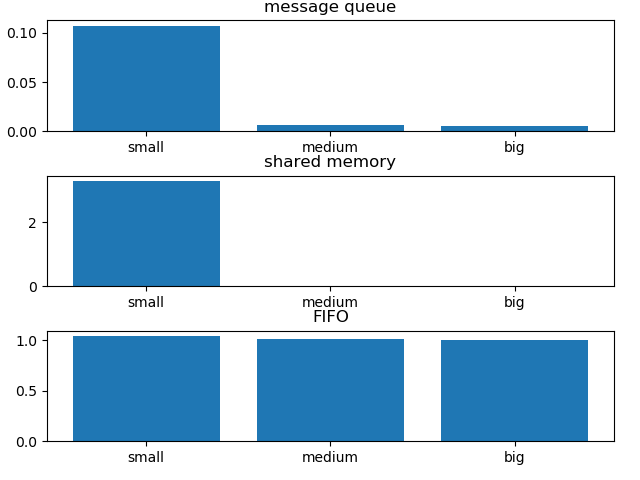
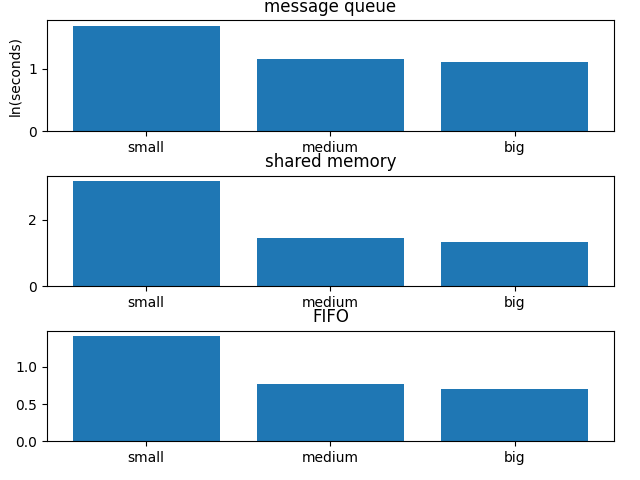
построил логарифмический график для file размером 2 ГБ

diff --git a/task3/hist.py b/task3/hist.py
@@ -1,14 +1,16 @@
 import matplotlib.pyplot as plt
+from math import log10 as lg
 times = []
 with open('output', 'r') as f:
     for line in f:
-        times.append(float(line))
+        times.append(lg(float(line)))
 fig, [ax1, ax2, ax3] = plt.subplots(nrows=3,ncols=1)
 fig.tight_layout()
 ax1.bar(['small', 'medium', 'big'], times[:3])
 ax1.set_title('message queue')
+ax1.set_ylabel('lg(seconds)')
 ax2.bar(['small', 'medium', 'big'], times[3:6])
 ax2.set_title('shared memory')
-ax3.bar(['small', 'medium', 'big'], [x/10 for x in times[6:9]])
+ax3.bar(['small', 'medium', 'big'], [x for x in times[6:9]])
 ax3.set_title('FIFO')
 plt.savefig('plot.png')
